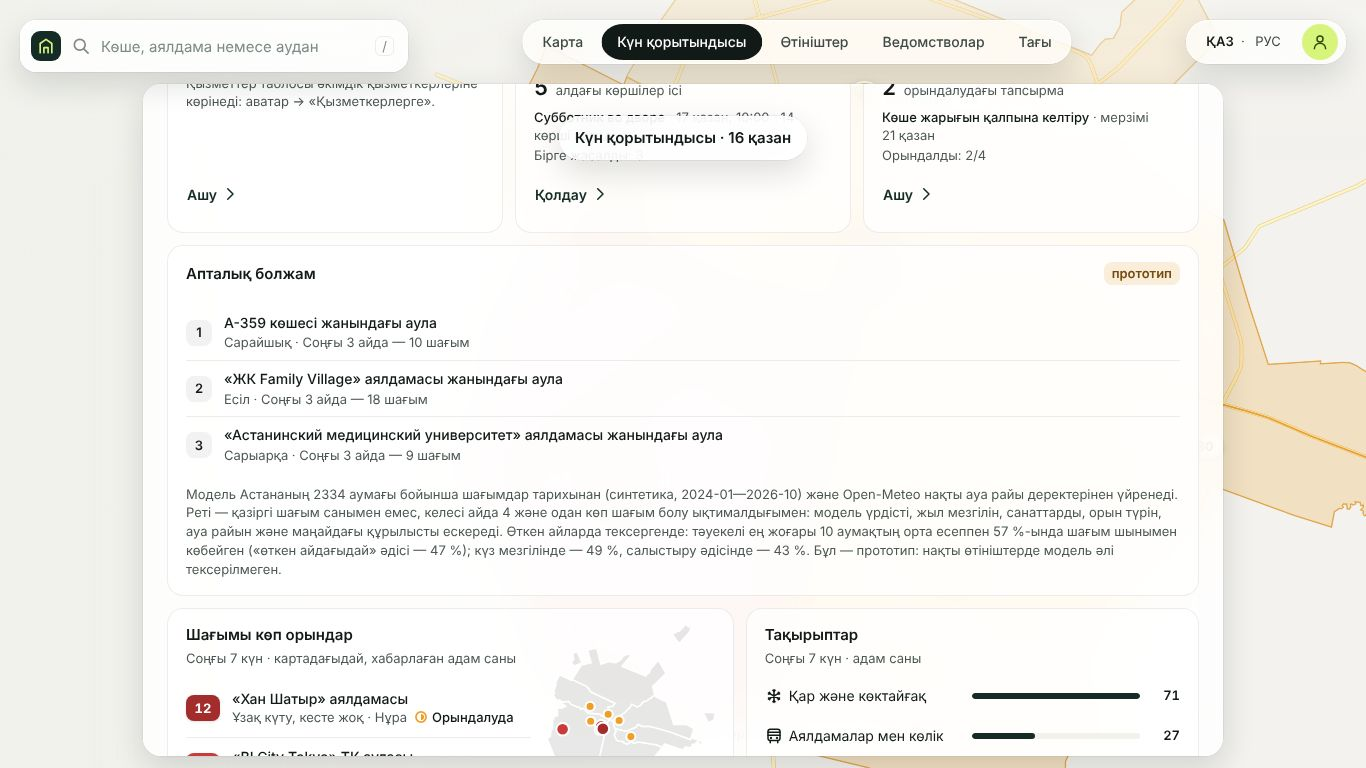
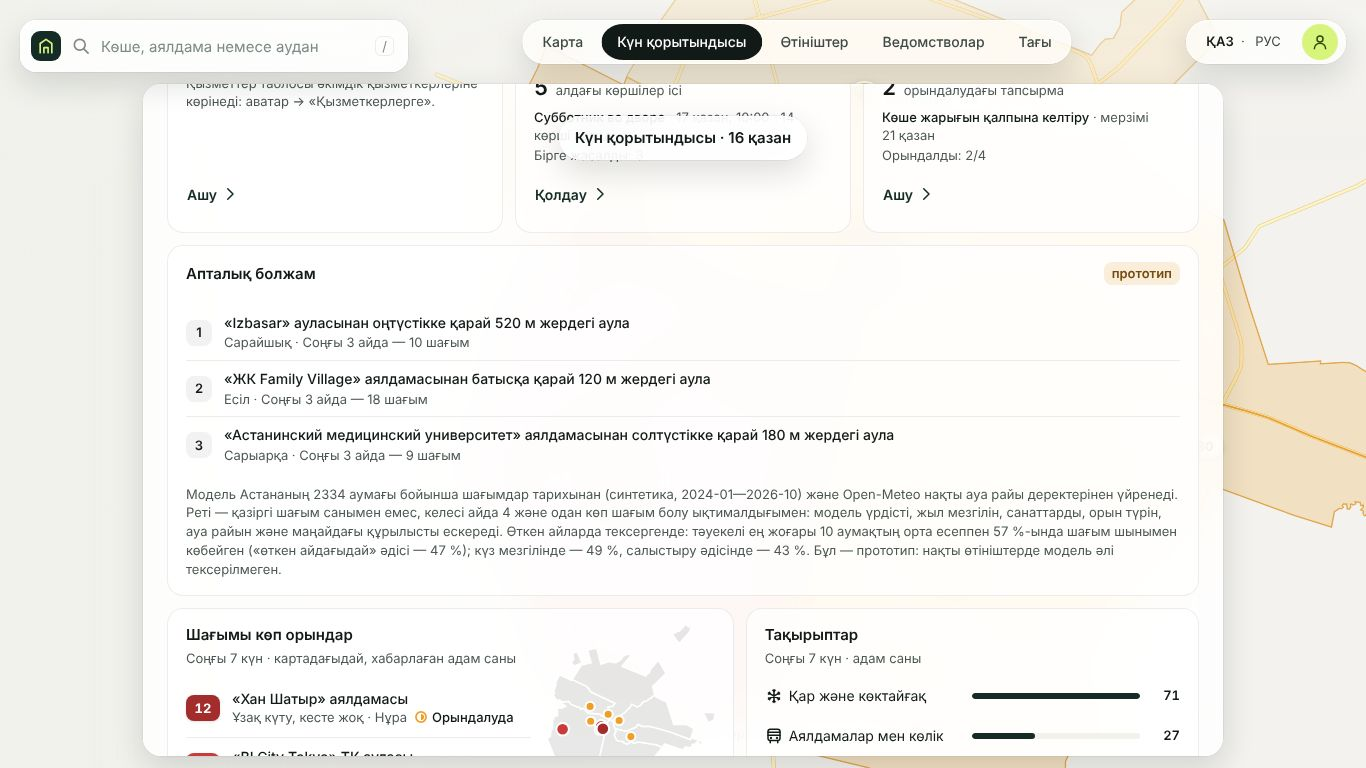
R13 r15 delivery 5.6: DELIVERY.json code 385750cb (pytest 183/0; neighbour tests on R01 B0.18 834/0; distinct forecast place labels, R03 request done; day-picture frames re-shot on B0.18)
Claude-Session: https://claude.ai/code/session_01CijgxdrQtWJ8WVGM8r3uNJ

Changed region(s): [[0.1537, 0.4062, 0.4612, 0.4375], [0.4305, 0.5625, 0.6457, 0.5938], [0.3075, 0.4688, 0.5227, 0.5]]

diff --git a/research/round-15-results/R13/make_delivery.py b/research/round-15-results/R13/make_delivery.py
@@ -104,10 +104,14 @@ def main() -> None:
                                    "note": "R15 (файлы = a933f361) на сборке R01 B0.17 с кодом R13 этой поставки: "
                                    "round15/test_r15_round15_meetings.py 27/27, test_r15_qa.py 12/12 (без NOT_RUN)"},
             "r08_day_forecast_on_r01_build": {"status": "PASS",
-                                              "note": "сборка R01 B0.16 (4ac57b10), демо-мир, акимат → «Картина дня»: блок R08 "
+                                              "note": "сборка R01 B0.18 (7729c2cc), демо-мир, акимат → «Картина дня»: блок R08 "
                                               "«Прогноз на неделю» из ui.civic_forecast — метка «прототип», 3 территории с причиной, "
                                               "объяснение с числами проверки (57 % против 47 %); 1366 ru/kk и 375 ru, кадры "
-                                              "screens/day-forecast-*.jpg (подписи мест — код 0ef104c2)"},
+                                              "screens/day-forecast-*.jpg (подписи мест — код 385750cb)"},
+            "neighbor_tests_on_b018": {"status": "PASS", "passed": 834, "failed": 0,
+                                       "note": "сборка R01 B0.18 (7729c2cc) с модулями и тестами R13 этой поставки: tests/civic/R08, "
+                                       "tests/civic/R03, tests/civic/R13, R15 test_r15_qa.py + round15/test_r15_round15_meetings.py "
+                                       "(10 skipped, 1 xfailed — их же)"},
             "r10_visual_audit": {"status": "PASS", "passed": 124, "total": 124,
                                  "note": "tests/e2e/visual_audit.cjs R10 @ 900dd0a2 --only meetings,meetings-staff на сборке R01 "
                                  "B0.17 с модулями R13 (демо-мир, 1366/1024/375 × ru/kk): WARN 0, FAIL 0 — на pvG было "
@@ -124,8 +128,8 @@ def main() -> None:
         "patches_for_r01": ["research/round-15-results/R13/patches/r01_meetings_routes.patch",
                             "research/round-15-results/R13/patches/r01_meetings_assets_sheet.patch"],
         "known_limits": [
-            "R01 B0.17 (afaabca1) несёт R13 9ca9bc72 (маршруты meetings.*, ассеты, теги — с B0); в B1 взять code_sha этой "
-            "поставки — сверх 9ca9bc72 подписи мест прогноза и строка «через 3 дня» на телефоне; только пути R13.",
+            "R01 B0.18 (7729c2cc) несёт R13 0ef104c2 (маршруты meetings.*, ассеты, теги — с B0); в B1 взять code_sha этой "
+            "поставки — сверх 0ef104c2 строка «через 3 дня» на телефоне и различимые подписи соседних мест; только пути R13.",
             "С B0.11 R01 ставит «Вопросы и встречи» своим экраном-колонкой 720 px (VISUAL_BRIEF §2 п. 2); строки шторки из "
             "патча R13 §3 не нужны. Кадры и браузер — на этой раскладке (B0.17).",
             "Кнопка «♡» у вопросов — рамка 44 px с прозрачной каймой, видимая таблетка 32 px (вариант R11 R13-3): тёмная "

diff --git a/research/handoffs/astana/R13/round15/STATUS.md b/research/handoffs/astana/R13/round15/STATUS.md
@@ -197,6 +197,15 @@ restored_from: — (роль начата с нуля в этом раунде; 
   · Кадр 375-kk: в карточке ближайшей встречи «3 күннен кейін» переносилось на вторую строку с «·» в начале. Точка теперь
     отдельный aria-hidden элемент, на ≤ 480 px скрыта (576c1239); на ноутбуке строка прежняя.
   ПОСТАВКА 5.5 — code_sha 576c1239 (для B1: сверх B0.17 — подписи мест прогноза и эта строка).
+- 09:24 круг 15: AMENDMENTS — только П1. R01 B0.18 (7729c2cc) взял R13 0ef104c2 (подписи мест прогноза), pytest сборки
+  5009/0. Просьба R03 (по желанию): у двух дворов у одной остановки одна подпись — в ответе аналитика одна строка.
+  Замер: в 7 из 14 списков «первые 5» (город + 6 районов × 2 месяца) были повторы. Сделано (385750cb): безымянным местам
+  с повторяющейся подписью — привязка к ближайшей названной остановке (точка OSM) со стороной света и расстоянием
+  («Двор в 120 м к западу от остановки «ЖК Family Village»»), нет остановки ближе 800 м — к названному двору, потом 1,5 км.
+  К улице не привязываю: от улицы в данных одна точка, а не линия. targets.json: поле ref у 883 из 2334 мест, остальное
+  без изменений (команда qualify-targets). Повторов в «первых 5» — 0 из 28 (ru и kk). Тест +1; pytest 183/0;
+  тесты R08 / R03 / R13 / R15 на B0.18 — 834/0. Кадры «Картины дня» пересняты на B0.18.
+  ПОСТАВКА 5.6 — code_sha 385750cb.
 
 ## Дальше
 - Каждый круг: AMENDMENTS.md пакета → find_branches.py → соседи (R01 сборка, R02 мир, R06 лента, R08 блоки, R10 дефекты,
@@ -205,7 +214,7 @@ restored_from: — (роль начата с нуля в этом раунде; 
   link_pick_work, link_pick_any, link_pick_list_empty, pick_object) — в словарь R11.
 - R10: B-105 закрыт (pvE), B-118 — 0 FAIL в аудите B0.9; на B1 — только убедиться, что строки BUGS закрыты.
 - R15: находки по ui/civic_meetings, ui/civic_qa → чинить в своих путях, тест в tests/civic/R13.
-- B1 (16 окт 14:00): проверить, что R01 взял code_sha поставки 5.5 (в B0.17 — 9ca9bc72), прогнать meetings_browser.cjs
+- B1 (16 окт 14:00): проверить, что R01 взял code_sha поставки 5.6 (в B0.18 — 0ef104c2), прогнать meetings_browser.cjs
   (--full и демо-мир), qa_browser.cjs и аудит R10 (--only meetings,meetings-staff) на B1; кадр «Картины дня» с прогнозом.
 
 ## Вопросы владельцу (решено по умолчанию, не жду ответа)
